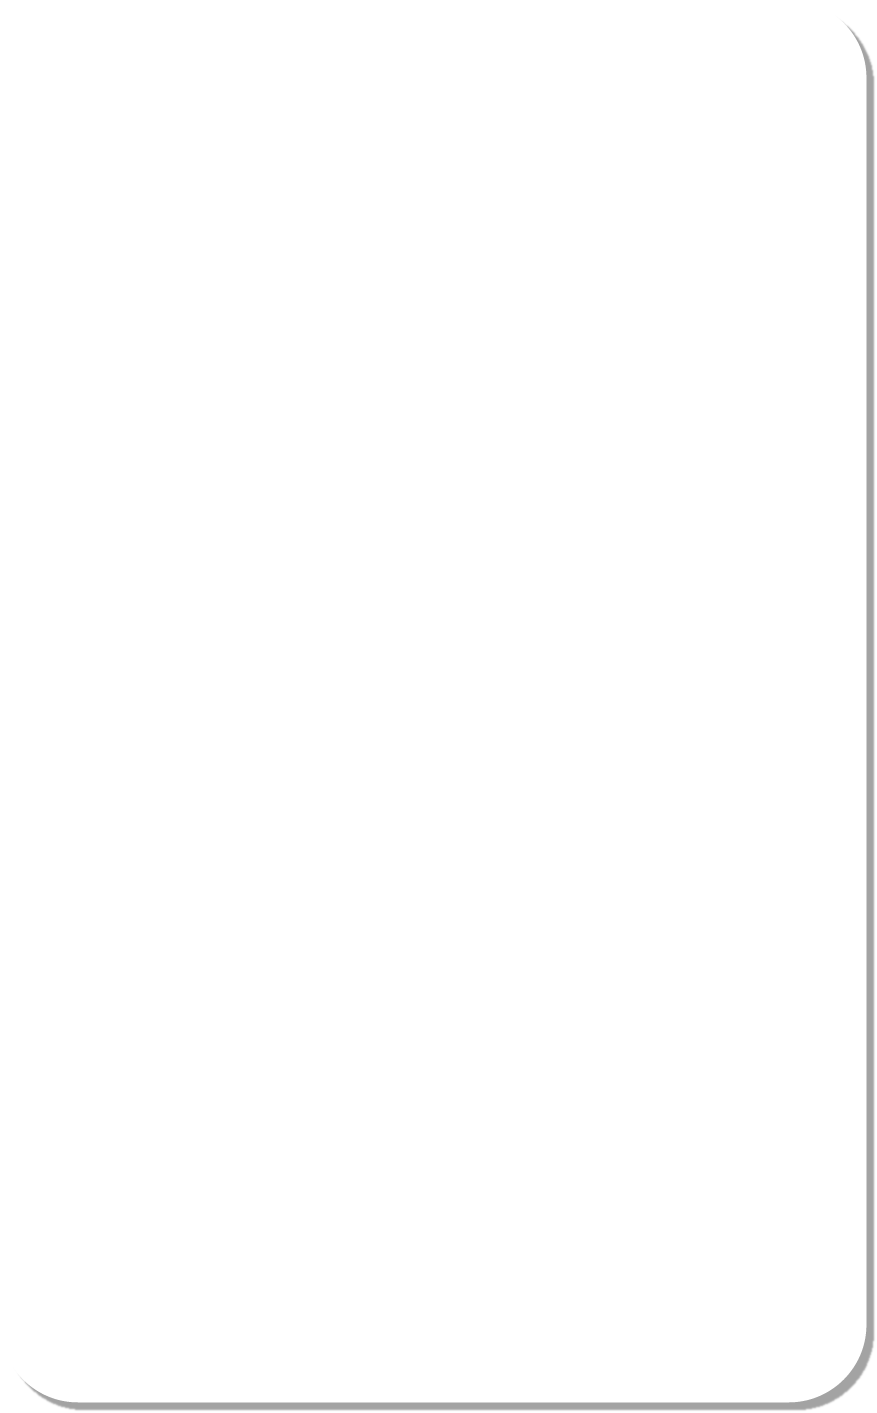
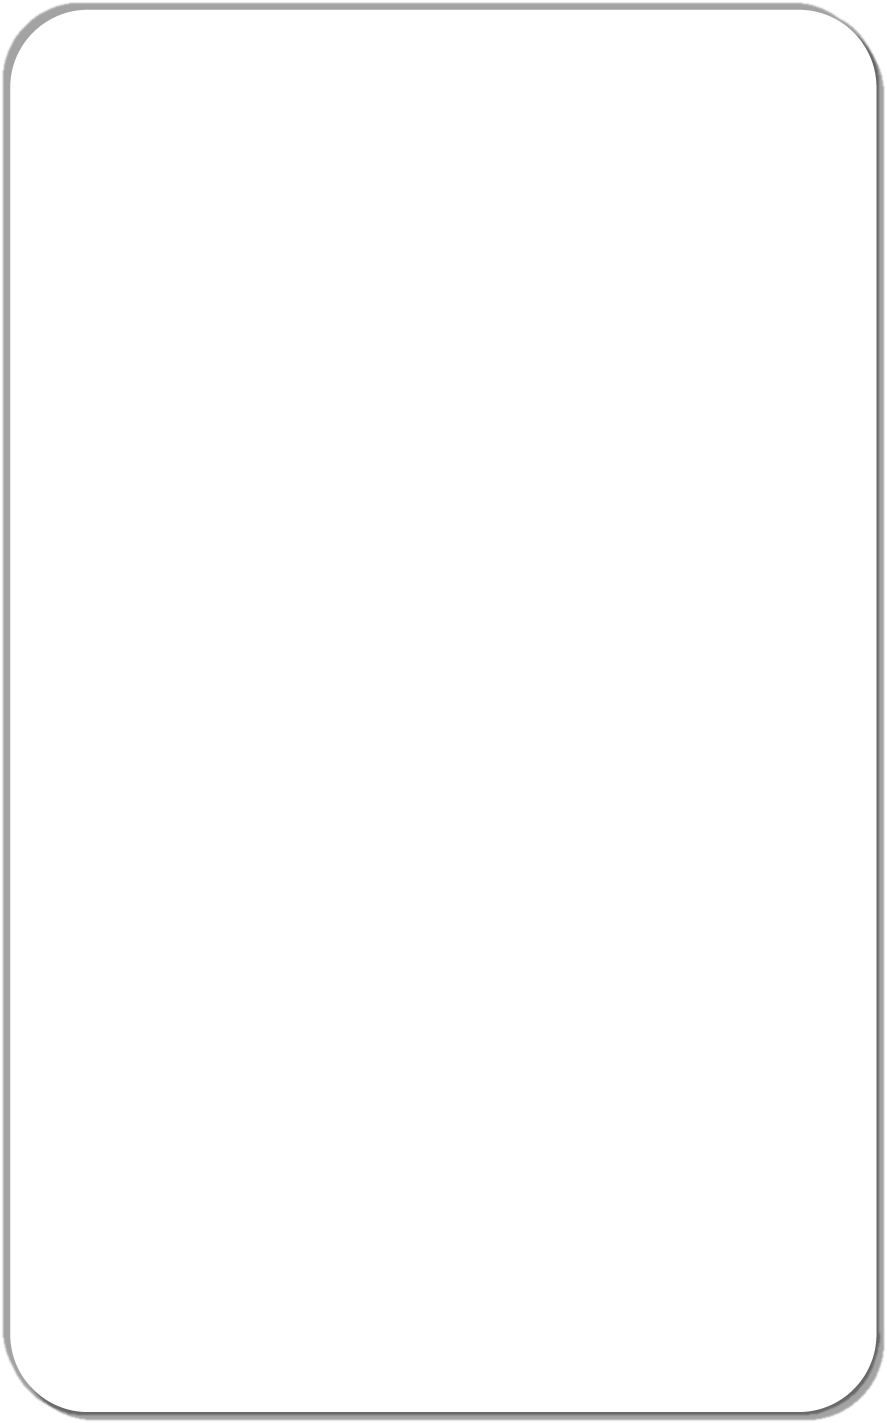
replace background image; finalize product template

Changed region(s): [[0.0, 0.0, 0.9852, 0.9653], [0.9852, 0.0311, 1.0, 0.9653], [0.0308, 0.9653, 0.0924, 1.0]]

diff --git a/public/product_template.html b/public/product_template.html
@@ -1,0 +1,219 @@
+<!DOCTYPE html>
+<html>
+<title>TODO | 腾客Tenkk</title>
+    <meta charset="UTF-8">
+    <meta name="viewport" content="width=device-width, initial-scale=1">
+    <!-- w3schools library -->
+    <link rel="stylesheet" href="https://www.w3schools.com/w3css/4/w3.css">
+    <!-- jquery library   -->
+    <script src="https://ajax.googleapis.com/ajax/libs/jquery/3.2.1/jquery.min.js"></script>
+    <!-- bootstrap library -->
+    <link rel="stylesheet" href="https://maxcdn.bootstrapcdn.com/bootstrap/3.3.7/css/bootstrap.min.css">
+    <script src="https://maxcdn.bootstrapcdn.com/bootstrap/3.3.7/js/bootstrap.min.js"></script>
+    <!-- font-awesome library -->
+    <link rel="stylesheet" href="https://cdnjs.cloudflare.com/ajax/libs/font-awesome/4.7.0/css/font-awesome.min.css">
+    <!-- custom style sheet  -->
+    <link rel="stylesheet" type="text/css" href="css/index.css">
+
+<script src="js/retirement.js"></script>
+
+<body>
+    <!-- Navigation Bar -->
+    <nav class="navbar navbar-default bg-faded navbar-fixed-top" style="font-size:20px;">
+        <div class="container">
+            <div class="navbar-header">
+                <a class="navbar-brand smooth" href="#home">
+                    <img class="float-left logo" src="images/tenkk_small.png">
+                </a>
+            </div>
+            <div class="collapse navbar-collapse">
+                <ul class="nav navbar-nav navbar-right">
+                    <li class="nav-item">
+                        <a href="index.html" class="smooth nav-link">
+                                <i class="glyphicon glyphicon-zoom-in"></i>
+                                <b>返回主页</b>
+                            </a>
+                    </li>
+                </ul>
+            </div>
+        </div>
+    </nav>
+
+    <!-- Content -->
+    <div>
+        <!-- Banner -->
+        <div id="inner-header">
+            <img class="banner" src="images/bgimg.jpg" alt="">
+
+        </div> <!-- Banner end -->
+        <div class="container">
+            <div class="row product-sidebar">
+                <div class="col-md-3">
+                    <h1 class="w3-border-bottom w3-border-black w3-padding-16" style="font-family: verdana; font-size:20px"><b>借贷</b></h1>
+                    <p class="w3-border-bottom w3-border-black w3-padding-16"><a href="mic.html">房产抵押型贷款 </a></p>
+                </div>
+                <div class="col-md-6" style="font-size:18px; padding:50px;" id="product-article" align="center">
+
+                    <br>
+                    <h1 style="text-align:center; font-size: 38px">房产抵押型贷款</h1>
+                    <br>
+                    <p style="LINE-HEIGHT:40px;">房贷抵押投资公司（Mortgage Investment Cooperation，简称MIC）是1973年加拿大根据《所得税法》第130.1节设立的特许金融机构，拥有超过40年的经营历史，其本质是一种民间借贷，以房地产作抵押发放贷款，通常贷款额度不超过抵押物价值75%。主要目的是以稳定回报率吸引投资者，并将这些资金提供给需要第一位或者第二位房贷的借款人。<br><br>                        MIC的审查重点与银行的“是否满足信贷条件”不同，而是“能否安全收回利息和本金”，因此能比传统银行、信用社或信托公司更快捷地提供短期贷款。在借款人无法获得银行贷款批准又急需资金买房的情况下，如老移民信用不足、新移民暂无收入证明，MIC可帮助借款人解决当前危机。在审核借款人信用和还款能力后，会收取相对较高的9%至18%的年利率，具体由借款人的个人情况决定。
+                    </p>
+                    <br>
+
+
+
+                </div>
+                <div class="col-md-3 product-sidebar">
+                    <br>
+                    <h1 style="font-family: verdana; font-size:15px"><b>相关文章...</b></h1>
+                    <br>
+                    <a href=""><img src="images/portrait.jpg" height="60" width="60"><b>&nbsp;&nbsp;&nbsp;&nbsp; title1</b></a>
+                    <br>
+                    <br>
+                    <a><img src="images/portrait.jpg" height="60" width="60"><b>&nbsp;&nbsp;&nbsp;&nbsp; title2</b></a>
+                    <br>
+                    <br>
+                    <a><img src="images/portrait.jpg" height="60" width="60"><b>&nbsp;&nbsp;&nbsp;&nbsp; title3</b></a>
+                    <br>
+                    <br>
+                    <a><img src="images/portrait.jpg" height="60" width="60"><b>&nbsp;&nbsp;&nbsp;&nbsp; title4</b></a>
+                    <br>
+                    <br>
+                    <a><img src="images/portrait.jpg" height="60" width="60"><b>&nbsp;&nbsp;&nbsp;&nbsp; title5</b></a>
+
+                    <div style="font-family: verdana; font-size:15px; position: absolute; bottom: 10px; right: 10px;"><a href=""><b>更多软文...</b></a></div>
+
+
+
+                </div>
+            </div>
+        </div>
+
+        <div class="container" id="adv-row" style="margin-top:50px">
+            <div class="container-fluid" id="advisor-container">
+                <div class="row">
+                    <h2 align="center" style="color:#000">— Adivsor 推荐 —</h2>
+                </div>
+                <div class="row">
+                    <div class="col-md-4">
+                        <br> <br> <br>
+                        <img class="center-block" src="images/Circle.png" width="100" height="100" />
+
+                    </div>
+                    <div class="col-md-4">
+                        <h2>Charles Wang</h2>
+                        <p>This is indicated in the documentation via input parameter specifications such as a : (..., M, M)
+                            array_like. This means that if for instance given an input array a.shape == (N, M, M), it is
+                            interpreted as a “stack” of N matrices, each of size M-by-M. Similar specification applies to
+                            return values, for instance the determinant has det : (...) and will in this case.
+                        </p>
+                    </div>
+
+
+
+
+                </div>
+
+                <div class="row">
+
+                    <div class="col-md-4">
+                        <br> <br> <br>
+                        <img class="center-block" src="images/Circle.png" width="100" height="100" />
+
+                    </div>
+                    <div class="col-md-4">
+                        <h2>Charles Wang</h2>
+                        <p>This is indicated in the documentation via input parameter specifications such as a : (..., M, M)
+                            array_like. This means that if for instance given an input array a.shape == (N, M, M), it is
+                            interpreted as a “stack” of N matrices, each of size M-by-M. Similar specification applies to
+                            return values, for instance the determinant has det : (...) and will in this case.
+                        </p>
+                    </div>
+
+
+                    <div class="col-md-4">
+
+                        <br><br><br><br><br><br><br><br><br><br><br><br><br><br>
+                        <a><span class="pull-right"> <font size="6">更多Advisor....</font></span></a>
+
+
+
+
+
+                    </div>
+
+                </div>
+            </div>
+        </div>
+    </div>
+
+
+
+
+
+
+
+
+    <!-- End page content -->
+    <!-- Footer -->
+    <!-- Contact Section -->
+    <div id="contact" class="main-section container">
+        <div align="center" class="section col-md-4">
+            <a> <br><br><img src ="images/qr.png"><br><br></a>
+            <p>分享我们</p>
+        </div>
+        <div class="section col-md-4">
+            <h3 class="w3-border-bottom w3-border-light-blue w3-padding-16" style="font-family:verdana">Useful Links<br>
+                <font size="4">更多链接</font>
+            </h3><br>
+            <p><a href="http://cpig.visastudio.com/#">CPIG Tax</a></p>
+            <p><a href="https://www.freedom55financial.com/">Freedom 55</a></p>
+            <p><a href="http://www.fidelity.ca/">Fidelity</a></p>
+            <p><a href="https://www.londonlife.com/">London Life</a></p>
+            <p><a href="https://www.canada.ca/en.html">Canada Government</a></p>
+            <p><a href="http://www2.gov.bc.ca/">BC Government</a></p>
+        </div>
+        <div class="section col-md-4">
+            <h3 class="w3-border-bottom w3-border-light-blue w3-padding-16" style="font-family:verdana">Get in Touch<br>
+                <font size="4">联系我们</font>
+            </h3><br>
+            <p><i class="glyphicon glyphicon-phone"></i> : 604-275-2744</p><br>
+            <p><i class="glyphicon glyphicon-envelope"></i> : info@tenkk.ca</p><br>
+            <p><i class="fa fa-clock-o"></i> : Mon - Fri 9.00 - 17.00</p><br>
+            <p><i class="fa fa-car"></i> : #4080-8171 Ackroyd Rd,Richmond, BC.V6X3K1</p>
+        </div>
+
+    </div>
+    <div id="footer" class="container">
+        <div class="main-section container">
+            <div class="section col-md-6">
+                <a> <br><br><br><br><br><br><br><img class="logo" src ="images/tenkk_small.png" height="70px"></a>
+            </div>
+            <div class="section col-md-6">
+                <p>
+                    <div class="section col-md-4"><img src="images/qr1.png" width="150px" height="150px"></div>
+                </p>
+                <p>
+                    <div class="section col-md-4"><img src="images/qr2.png" width="150px" height="150px"></div>
+                </p>
+                <p>
+                    <div class="section col-md-4"><img src="images/qr3.png" width="150px" height="150px"></div>
+                </p>
+
+            </div>
+
+
+        </div>
+        <div align="center">
+            <p>
+                <font size="2"><br><br>Copyright©2017TenKK Financial Consulting Ltd. All rights reserved.| Desclaimer</font>
+            </p>
+        </div>
+    </div>
+
+    <!-- End page content -->
+
+</body>
+
+</html>
